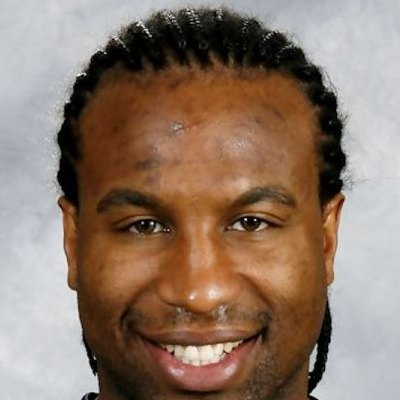
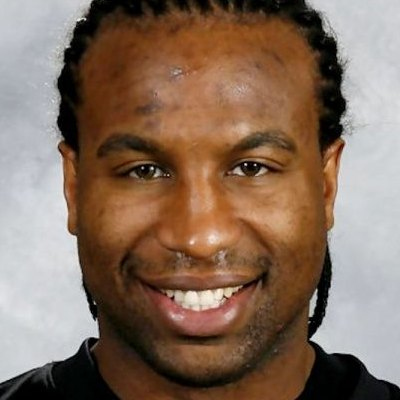
Stop mass entries: per-connection cap, hidden bot trap, admin flags and remove-all; raise Georges' face in photo

diff --git a/server.js b/server.js
@@ -17,6 +17,9 @@ const NHL_SCORE_URL = date => `https://api-web.nhle.com/v1/score/${date}`;
 const NHL_SCHEDULE_URL = date => `https://api-web.nhle.com/v1/schedule/${date}`;
 const NHL_STANDINGS_URL = 'https://api-web.nhle.com/v1/standings/now';
 const VERSION = (process.env.RENDER_GIT_COMMIT || String(Date.now())).slice(0, 12); // changes on every deploy
+// Anti-spam: how many entries one internet connection can make per Saturday (a family can share one connection)
+const MAX_PER_NETWORK = Math.max(1, Number(process.env.MAX_ENTRIES_PER_NETWORK) || 3);
+const NET_SALT = process.env.ENTRY_SALT || 'bg:' + (process.env.ADMIN_PASSWORD || 'beat-georges');
 const RESERVED = ['georges', 'laraque', 'georgeslaraque', 'admin', 'betgrw', 'moderator'];
 
 /* ---------- Prize pool ----------
@@ -287,6 +290,22 @@ function readBody(req) {
   });
 }
 const hits = new Map();
+// The visitor's real address. Render sits behind Cloudflare, which sets cf-connecting-ip.
+function clientIp(req) {
+  const h = req.headers;
+  return String(h['cf-connecting-ip'] || h['true-client-ip'] || (h['x-forwarded-for'] || '').split(',')[0] || req.socket.remoteAddress || '').trim();
+}
+// A short, anonymous ID for the connection (the address itself is never stored).
+// Phones on IPv6 get a whole block of addresses, so those are grouped by their first 4 parts.
+function networkId(ip) {
+  let key = ip.replace(/^::ffff:/i, '');
+  if (key.includes(':')) key = key.split(':').slice(0, 4).join(':') + '::/64';
+  return crypto.createHash('sha256').update(NET_SALT + '|' + key).digest('hex').slice(0, 10);
+}
+setInterval(() => { // forget old rate-limit records
+  const now = Date.now();
+  for (const [k, list] of hits) if (!list.some(t => now - t < 60000)) hits.delete(k);
+}, 5 * 60000).unref();
 function rateLimited(ip, limit = 20) {
   const now = Date.now(), list = (hits.get(ip) || []).filter(t => now - t < 60000);
   list.push(now); hits.set(ip, list);
@@ -329,12 +348,14 @@ async function handleState(req, res) {
 }
 
 async function handleEntry(req, res, ip) {
-  if (rateLimited(ip)) return send(res, 429, { error: 'Too many tries. Wait a minute and submit again.' });
+  if (rateLimited(networkId(ip))) return send(res, 429, { error: 'Too many tries. Wait a minute and submit again.' });
   const body = await readBody(req);
   const date = await contestDate();
   const games = await getGames(date);
   if (!playable(games).length) return send(res, 400, { error: 'There are no games on Saturday’s slate.' });
   if (isLocked(games)) return send(res, 403, { error: 'Picks locked at the first puck drop.' });
+
+  if (body.website) return send(res, 400, { error: 'Your picks weren’t saved. Try again.' }); // hidden trap field, only bots fill it in
 
   const username = String(body.username || '').trim();
   if (!/^[A-Za-z0-9_.\-]{3,20}$/.test(username)) return send(res, 400, { error: 'Usernames are 3 to 20 letters, numbers, dots, dashes or underscores.' });
@@ -352,11 +373,16 @@ async function handleEntry(req, res, ip) {
   const taken = contest.entries.find(e => e.username.toLowerCase() === username.toLowerCase());
   if (taken && taken !== mine) return send(res, 409, { error: 'That username is taken tonight. Pick another one.' });
 
+  const net = networkId(ip);
+  if (!mine && contest.entries.filter(e => e.net === net).length >= MAX_PER_NETWORK) {
+    return send(res, 429, { error: `This internet connection already has ${MAX_PER_NETWORK} ${MAX_PER_NETWORK === 1 ? 'entry' : 'entries'} this Saturday. It’s one entry per person. To change your picks, use the device you entered with.` });
+  }
+
   let token = null;
-  if (mine) { mine.username = username; mine.picks = picks; mine.updated = Date.now(); }
+  if (mine) { mine.username = username; mine.picks = picks; mine.updated = Date.now(); if (!mine.net) mine.net = net; }
   else {
     token = crypto.randomBytes(24).toString('hex');
-    contest.entries.push({ username, picks, tokenHash: hashToken(token), created: Date.now(), updated: Date.now() });
+    contest.entries.push({ username, picks, tokenHash: hashToken(token), net, created: Date.now(), updated: Date.now() });
   }
   await saveContest(date, contest);
   send(res, 200, { ok: true, username, token, updated: !!mine });
@@ -373,11 +399,11 @@ async function handleAdmin(req, res, route) {
     const settings = await getRecord('settings', {});
     return send(res, 200, {
       date, override: settings.contestDate || null, locked: isLocked(games), games, expert: contest.expert,
-      prizes: PRIZES, pool: PRIZE_POOL,
+      prizes: PRIZES, pool: PRIZE_POOL, maxPerNetwork: MAX_PER_NETWORK,
       entries: (() => {
         const lb = leaderboard(contest, games).rows.filter(r => !r.expert);
         const byName = new Map(lb.map(r => [r.name, r]));
-        return contest.entries.map(e => ({ username: e.username, created: e.created, updated: e.updated, picks: e.picks, score: scorePicks(e.picks, games), rank: byName.get(e.username)?.rank, prize: byName.get(e.username)?.prize || 0 }));
+        return contest.entries.map(e => ({ username: e.username, created: e.created, updated: e.updated, picks: e.picks, net: e.net || '', score: scorePicks(e.picks, games), rank: byName.get(e.username)?.rank, prize: byName.get(e.username)?.prize || 0 }));
       })()
     });
   }
@@ -400,6 +426,15 @@ async function handleAdmin(req, res, route) {
     const contest = await loadContest(date);
     const before = contest.entries.length;
     contest.entries = contest.entries.filter(e => e.username.toLowerCase() !== String(body.username || '').toLowerCase());
+    await saveContest(date, contest);
+    return send(res, 200, { ok: true, removed: before - contest.entries.length });
+  }
+  if (route === 'remove-network') {
+    const net = String(body.net || '');
+    if (!/^[0-9a-f]{10}$/.test(net)) return send(res, 400, { error: 'Unknown connection.' });
+    const contest = await loadContest(date);
+    const before = contest.entries.length;
+    contest.entries = contest.entries.filter(e => e.net !== net);
     await saveContest(date, contest);
     return send(res, 200, { ok: true, removed: before - contest.entries.length });
   }
@@ -433,7 +468,7 @@ async function serveStatic(req, res, pathname) {
 
 const server = http.createServer(async (req, res) => {
   const url = new URL(req.url, 'http://x');
-  const ip = (req.headers['x-forwarded-for'] || '').split(',')[0].trim() || req.socket.remoteAddress;
+  const ip = clientIp(req);
   try {
     if (url.pathname === '/api/state' && req.method === 'GET') return await handleState(req, res);
     if (url.pathname === '/api/entry' && req.method === 'POST') return await handleEntry(req, res, ip);

diff --git a/public/admin.js b/public/admin.js
@@ -61,6 +61,19 @@
   let find = '';
   const when = ms => ms ? new Date(ms).toLocaleString('en-US', { weekday: 'short', hour: 'numeric', minute: '2-digit' }) : '';
   const money = n => n ? '$' + (Number.isInteger(n) ? String(n) : n.toFixed(2)) : '';
+  // Entries that share one internet connection get flagged so you can spot multiple entries
+  function netCounts() {
+    const m = new Map();
+    state.entries.forEach(e => { if (e.net) m.set(e.net, (m.get(e.net) || 0) + 1); });
+    return m;
+  }
+  function netCell(e) {
+    if (!e.net) return '<td class="net">–</td>';
+    const n = netCounts().get(e.net);
+    if (n < 2) return `<td class="net"><span class="net-id">${esc(e.net.slice(0, 4))}</span></td>`;
+    return `<td class="net shared"><span class="net-id">${esc(e.net.slice(0, 4))}</span> <span class="net-n">${n} entries</span>
+      <button class="remove-net" type="button" data-net="${esc(e.net)}" data-count="${n}">Remove all ${n}</button></td>`;
+  }
   function sortedEntries() {
     return [...state.entries].sort((a, b) => b.score - a.score || a.username.localeCompare(b.username));
   }
@@ -74,7 +87,7 @@
   function renderGrid() {
     const games = state.games;
     $('#grid-head').innerHTML = `<tr><th class="rk">#</th><th class="who">Player</th>${games.map(g =>
-      `<th>${esc(g.away.abbr)}<small>at ${esc(g.home.abbr)}</small></th>`).join('')}<th>Pts</th><th>Prize</th><th>Last saved</th><th><span class="sr">Actions</span></th></tr>`;
+      `<th>${esc(g.away.abbr)}<small>at ${esc(g.home.abbr)}</small></th>`).join('')}<th>Pts</th><th>Prize</th><th>Last saved</th><th>Connection</th><th><span class="sr">Actions</span></th></tr>`;
 
     const list = sortedEntries();
     const q = find.trim().toLowerCase();
@@ -82,7 +95,7 @@
 
     const xs = games.reduce((n, g) => n + (g.winner && state.expert[g.id] === g.winner ? 1 : 0), 0);
     const georgesRow = Object.keys(state.expert).length
-      ? `<tr class="georges"><td class="rk">GL</td><td class="who">Georges Laraque</td>${games.map(g => cell(g, state.expert[g.id], true)).join('')}<td class="pts">${xs}</td><td></td><td></td><td></td></tr>`
+      ? `<tr class="georges"><td class="rk">GL</td><td class="who">Georges Laraque</td>${games.map(g => cell(g, state.expert[g.id], true)).join('')}<td class="pts">${xs}</td><td></td><td></td><td></td><td></td></tr>`
       : '';
     const rows = shown.map(e => `<tr>
       <td class="rk">${e.rank}</td>
@@ -91,15 +104,16 @@
       <td class="pts">${e.score}</td>
       <td class="prize">${esc(money(e.prize))}</td>
       <td class="when">${esc(when(e.updated || e.created))}</td>
+      ${netCell(e)}
       <td><button class="remove" type="button" data-user="${esc(e.username)}">Remove</button></td></tr>`).join('');
-    const cols = games.length + 6;
+    const cols = games.length + 7;
     $('#admin-rows').innerHTML = georgesRow + (rows || `<tr><td colspan="${cols}" class="board-empty">${state.entries.length ? 'No player matches that name.' : 'No entries yet.'}</td></tr>`);
 
     $('#grid-foot').innerHTML = state.entries.length ? `<tr><td></td><td class="who">Picked by</td>${games.map(g => {
       const a = state.entries.filter(e => e.picks && e.picks[g.id] === g.away.abbr).length;
       const h = state.entries.filter(e => e.picks && e.picks[g.id] === g.home.abbr).length;
       return `<td>${esc(g.away.abbr)} ${a}<br>${esc(g.home.abbr)} ${h}</td>`;
-    }).join('')}<td></td><td></td><td></td><td></td></tr>` : '';
+    }).join('')}<td></td><td></td><td></td><td></td><td></td></tr>` : '';
 
     $('#grid-count').textContent = `${state.entries.length} ${state.entries.length === 1 ? 'player' : 'players'}${q ? `, ${shown.length} shown` : ''}`;
   }
@@ -109,11 +123,11 @@
     if (!state) return;
     const games = state.games;
     const q = v => `"${String(v).replace(/"/g, '""')}"`;
-    const lines = [['Place', 'Player', ...games.map(g => `${g.away.abbr} at ${g.home.abbr}`), 'Points', 'Prize', 'Last saved'].map(q).join(',')];
+    const lines = [['Place', 'Player', ...games.map(g => `${g.away.abbr} at ${g.home.abbr}`), 'Points', 'Prize', 'Last saved', 'Connection'].map(q).join(',')];
     lines.push(['', 'Georges Laraque', ...games.map(g => state.expert[g.id] || ''), '', '', ''].map(q).join(','));
     lines.push(['', 'Winner', ...games.map(g => g.winner || ''), '', '', ''].map(q).join(','));
     sortedEntries().forEach(e => {
-      lines.push([e.rank || '', e.username, ...games.map(g => (e.picks && e.picks[g.id]) || ''), e.score, e.prize ? e.prize.toFixed(2) : '', new Date(e.updated || e.created).toISOString()].map(q).join(','));
+      lines.push([e.rank || '', e.username, ...games.map(g => (e.picks && e.picks[g.id]) || ''), e.score, e.prize ? e.prize.toFixed(2) : '', new Date(e.updated || e.created).toISOString(), e.net ? e.net.slice(0, 4) : ''].map(q).join(','));
     });
     const blob = new Blob(['\ufeff' + lines.join('\r\n')], { type: 'text/csv;charset=utf-8' });
     const a = document.createElement('a');
@@ -141,6 +155,17 @@
   });
 
   $('#admin-rows').addEventListener('click', async e => {
+    const nb = e.target.closest('button.remove-net');
+    if (nb) {
+      const n = Number(nb.dataset.count);
+      if (!confirm(`Remove all ${n} entries from this connection? This can’t be undone.`)) return;
+      try {
+        const r = await api('remove-network', { net: nb.dataset.net });
+        say('#rows-status', `Removed ${r.removed} entries from one connection.`, 'ok');
+        await load();
+      } catch (err) { say('#rows-status', err.message, 'error'); }
+      return;
+    }
     const b = e.target.closest('button.remove');
     if (!b) return;
     if (!confirm(`Remove ${b.dataset.user}’s entry? This can’t be undone.`)) return;

diff --git a/public/index.html b/public/index.html
@@ -121,6 +121,7 @@
       <div class="name-row">
         <label for="username">BetGRW username</label>
         <input id="username" name="username" type="text" maxlength="20" autocomplete="nickname" spellcheck="false" placeholder="e.g. HabsFan_514" aria-describedby="username-help">
+        <div class="trap" aria-hidden="true"><label for="website">Leave this empty</label><input id="website" name="website" type="text" tabindex="-1" autocomplete="off"></div>
         <p id="username-help" class="help">Use your betgrw.com username so we can confirm you’re eligible for the prize. It shows on the leaderboard.</p>
       </div>
 
@@ -154,6 +155,7 @@
         <li>Ties: players with the same score share the prizes for the places they cover. For example, two players tied for 2nd split the 2nd and 3rd place prizes.</li>
         <li>Georges is shown on the leaderboard for fun but doesn’t take a place or a prize.</li>
         <li>If a top-10 player isn’t eligible, the next eligible player moves up.</li>
+        <li>One entry per person. Players with more than one entry are disqualified, and each internet connection is limited to a few entries per Saturday.</li>
         <li>To be eligible, you need to deposit at least $20 on betgrw.com in the last 30 days. Enter with your betgrw.com username so we can confirm it.</li>
       </ul>
     </details>

diff --git a/public/styles.css b/public/styles.css
@@ -200,6 +200,7 @@ h2 { font: 700 18px/1.25 var(--text); letter-spacing: -.2px; }
 .name-row input { background: #fff; border: 1px solid var(--line-2); border-radius: 4px; padding: 8px 10px; width: 100%; font-weight: 500; font-size: 16px; }
 .name-row input:focus { border-color: var(--accent); outline: none; box-shadow: 0 0 0 3px var(--accent-soft); }
 .name-row input:disabled { background: var(--bg); color: var(--ink-2); }
+.trap { position: absolute; left: -10000px; width: 1px; height: 1px; overflow: hidden; }
 .help { margin: 0; font-size: 12px; color: var(--ink-2); }
 
 .day-head, .mrow { display: grid; grid-template-columns: 64px minmax(0, 1fr) 188px 72px; gap: 12px; align-items: center; padding: 0 var(--pad); }

diff --git a/public/admin.css b/public/admin.css
@@ -319,3 +319,9 @@ tr.is-me { background: #E3ECFB; }
 .legend i { display: inline-block; width: 14px; height: 4px; background: var(--blue); vertical-align: middle; margin-right: 4px; }
 
 .grid td.prize { font-weight: 700; color: var(--green); }
+.grid td.net { font-size: 12px; color: var(--ink-2); text-align: left; }
+.grid .net-id { font-weight: 600; letter-spacing: .5px; }
+.grid td.net.shared { background: #FFF4E5; color: #8A4B00; }
+.grid .net-n { font-weight: 700; }
+.grid .remove-net { margin-left: 6px; background: none; border: 1px solid #C26A00; color: #8A4B00; border-radius: 4px; padding: 3px 8px; font-size: 12px; font-weight: 600; }
+.grid .remove-net:hover { background: #C26A00; color: #fff; }

diff --git a/public/admin.html b/public/admin.html
@@ -44,7 +44,7 @@
     <section class="block">
       <div class="block-head">
         <h2>Players’ picks</h2>
-        <p class="block-sub">Every player’s pick in every game, best score first. Green is right, red is wrong. Prize shows what each player wins as things stand, before checking eligibility.</p>
+        <p class="block-sub">Every player’s pick in every game, best score first. Green is right, red is wrong. Prize shows what each player wins as things stand, before checking eligibility. Entries from the same internet connection are highlighted in orange.</p>
       </div>
       <div class="grid-tools">
         <label for="find" class="sr">Find a player</label>

diff --git a/public/app.js b/public/app.js
@@ -489,7 +489,7 @@
       const res = await fetch('/api/entry', {
         method: 'POST',
         headers: { 'Content-Type': 'application/json', 'x-entry-token': store.get('bg_token') || '' },
-        body: JSON.stringify({ username, picks: draft })
+        body: JSON.stringify({ username, picks: draft, website: $('#website').value })
       });
       const json = await res.json();
       if (!res.ok) throw new Error(json.error || 'Your picks weren’t saved. Try again.');

diff --git a/README.md b/README.md
@@ -58,3 +58,10 @@ Any Node host works. Settings:
 - `public/admin.html`, `admin.css`, `admin.js` — the admin page.
 - `public/teams.js` — team colors and names.
 - `scripts/demo.js` — sample games for previewing.
+
+## Stopping multiple entries
+- Each internet connection can make at most 3 entries per Saturday (enough for a family). Change it with the `MAX_ENTRIES_PER_NETWORK` setting on Render.
+- Players can still update their own picks after the cap is reached.
+- A hidden form field catches simple bots, and repeated tries are slowed down.
+- In `/admin`, entries from the same connection are highlighted in orange with a **Remove all** button. Connections are stored as short anonymous codes, never as addresses.
+- The deposit rule is the final check: before paying a prize, confirm the winner's betgrw.com account. Fake usernames won't have deposits.
